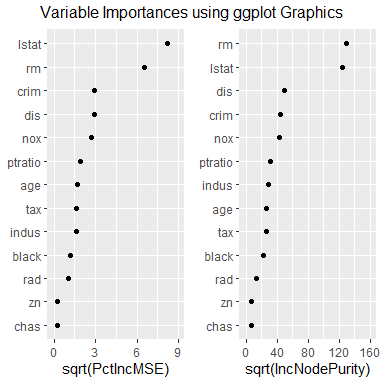
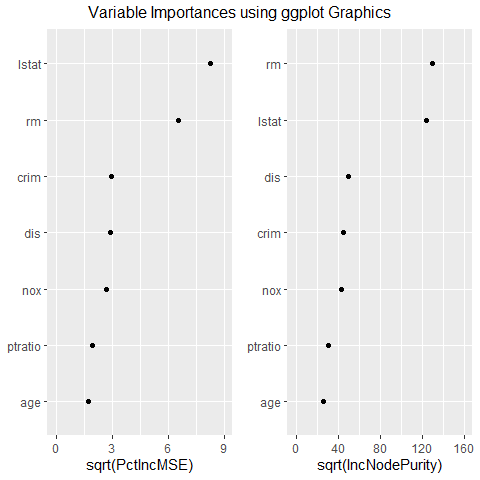
robust_vif fix

diff --git a/README.md b/README.md
@@ -6,6 +6,7 @@
 <!-- badges: start -->
 
 [![R-CMD-check](https://github.com/KelvynBladen/randomForestVIP/actions/workflows/R-CMD-check.yaml/badge.svg)](https://github.com/KelvynBladen/randomForestVIP/actions/workflows/R-CMD-check.yaml)
+
 <!-- badges: end -->
 
 The goal of `randomForestVIP` is to tune and select a good Random Forest
@@ -143,7 +144,7 @@ We now take our selected model and build individual importance plots for
 it using `ggvip`.
 
 ``` r
-g <- ggvip(m$rf9)$both_vips
+g <- ggvip(m$rf9, num_var = 7)$both_vips
 ```
 
 <img src="man/figures/README-unnamed-chunk-6-1.png" width="100%" style="display: block; margin: auto;" />
